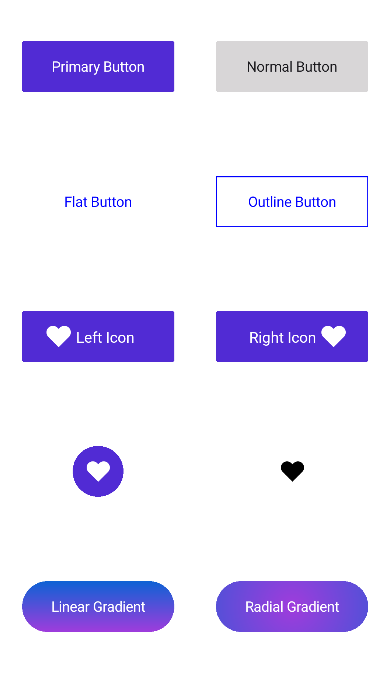
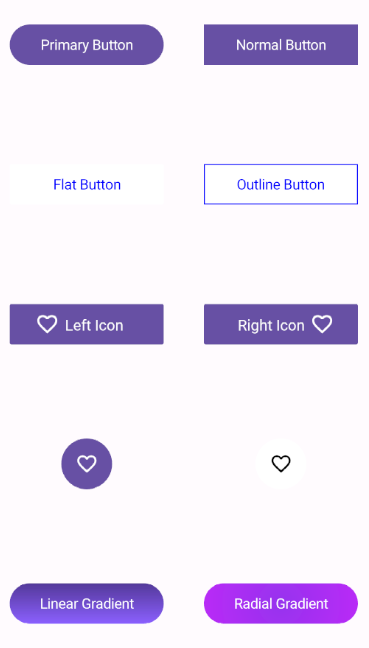
Addressed review changes

diff --git a/maui-toolkit/Button/Customization.md b/maui-toolkit/Button/Customization.md
@@ -22,7 +22,7 @@ The [`TextColor`](https://help.syncfusion.com/cr/maui-toolkit/Syncfusion.Maui.To
 {% tabs %}
 {% highlight xaml %}
 
-<button:SfButton x:Name="button" Text="Button" TextColor = "White">
+<button:SfButton x:Name="button" Text="Button" TextColor = "White" CornerRadius="10">
 </button:SfButton>
 
 {% endhighlight %}
@@ -31,6 +31,7 @@ The [`TextColor`](https://help.syncfusion.com/cr/maui-toolkit/Syncfusion.Maui.To
 SfButton button = new SfButton();
 button.Text = "Button";
 button.TextColor = Colors.White;
+button.CornerRadius= 10;
 
 {% endhighlight %}
 {% endtabs %}
@@ -44,7 +45,7 @@ The [`FontSize`](https://help.syncfusion.com/cr/maui-toolkit/Syncfusion.Maui.Too
 {% tabs %}
 {% highlight xaml %}
 
-<button:SfButton x:Name="button" Text="Button" FontSize = "18">
+<button:SfButton x:Name="button" Text="Button" FontSize = "18" CornerRadius="10">
 </button:SfButton>
 
 {% endhighlight %}
@@ -53,6 +54,7 @@ The [`FontSize`](https://help.syncfusion.com/cr/maui-toolkit/Syncfusion.Maui.Too
 SfButton button = new SfButton();
 button.Text = "Button";
 button.FontSize = 18;
+button.CornerRadius= 10;
 
 {% endhighlight %}
 {% endtabs %}
@@ -66,7 +68,7 @@ The [`FontAttributes`](https://help.syncfusion.com/cr/maui-toolkit/Syncfusion.Ma
 {% tabs %}
 {% highlight xaml %}
 
-<button:SfButton x:Name="button" Text="Button" FontAttributes = "Italic">
+<button:SfButton x:Name="button" Text="Button" FontAttributes = "Italic" CornerRadius="10">
 </button:SfButton>
 
 {% endhighlight %}
@@ -75,6 +77,7 @@ The [`FontAttributes`](https://help.syncfusion.com/cr/maui-toolkit/Syncfusion.Ma
 SfButton button = new SfButton();
 button.Text = "Button";
 button.FontAttributes = FontAttributes.Italic;
+button.CornerRadius= 10;
 
 {% endhighlight %}
 {% endtabs %}
@@ -88,7 +91,7 @@ The [`FontFamily`](https://help.syncfusion.com/cr/maui-toolkit/Syncfusion.Maui.T
 {% tabs %}
 {% highlight xaml %}
 
-<button:SfButton x:Name="button" Text="Button" FontFamily = "Samantha-Demo">
+<button:SfButton x:Name="button" Text="Button" FontFamily = "Samantha-Demo" CornerRadius="10">
 </button:SfButton>
 
 {% endhighlight %}
@@ -97,6 +100,7 @@ The [`FontFamily`](https://help.syncfusion.com/cr/maui-toolkit/Syncfusion.Maui.T
 SfButton button = new SfButton();
 button.Text = "Button";
 button.FontFamily = "Samantha-Demo";
+button.CornerRadius= 10;
 
 {% endhighlight %}
 {% endtabs %}
@@ -192,7 +196,7 @@ The [`Background`](https://help.syncfusion.com/cr/maui-toolkit/Syncfusion.Maui.T
 {% tabs %}
 {% highlight xaml %}
 
-<button:SfButton x:Name="button" Text="Button" Background = "DeepSkyBlue">
+<button:SfButton x:Name="button" Text="Button" Background = "DeepSkyBlue" CornerRadius="10">
 </button:SfButton>
 
 {% endhighlight %}
@@ -201,6 +205,7 @@ The [`Background`](https://help.syncfusion.com/cr/maui-toolkit/Syncfusion.Maui.T
 SfButton button = new SfButton();
 button.Text = "Button";
 button.Background = Colors.DeepSkyBlue;
+button.CornerRadius= 10;
 
 {% endhighlight %}
 {% endtabs %}
@@ -216,7 +221,7 @@ The [`Stroke`](https://help.syncfusion.com/cr/maui-toolkit/Syncfusion.Maui.Toolk
 {% tabs %}
 {% highlight xaml %}
 
-<button:SfButton x:Name="button" Text="Button" Stroke="Red">
+<button:SfButton x:Name="button" Text="Button" Stroke="Red" CornerRadius="10">
 </button:SfButton>
 
 {% endhighlight %}
@@ -225,6 +230,7 @@ The [`Stroke`](https://help.syncfusion.com/cr/maui-toolkit/Syncfusion.Maui.Toolk
 SfButton button = new SfButton();
 button.Text = "Button";
 button.Stroke = Colors.Red;
+button.CornerRadius= 10;
 
 {% endhighlight %}
 {% endtabs %}
@@ -238,7 +244,7 @@ The [`StrokeThickness`](https://help.syncfusion.com/cr/maui-toolkit/Syncfusion.M
 {% tabs %}
 {% highlight xaml %}
 
-<button:SfButton x:Name="button" Text="Button" Stroke="Red" StrokeThickness="6">
+<button:SfButton x:Name="button" Text="Button" Stroke="Red" StrokeThickness="6" CornerRadius="10">
 </button:SfButton>
 
 {% endhighlight %}
@@ -248,6 +254,7 @@ SfButton button = new SfButton();
 button.Text = "Button";
 button.StrokeThickness = 6;
 button.Stroke = Colors.Red;
+button.CornerRadius= 10;
 
 {% endhighlight %}
 {% endtabs %}
@@ -310,7 +317,7 @@ N> Enable the [`ShowIcon`]() property to enable the [`ImageSource`](https://help
 {% tabs %}
 {% highlight xaml %}
 
-<button:SfButton x:Name="button" Text="Button" ImageSource="Heart.png" ShowIcon="True">
+<button:SfButton x:Name="button" Text="Button" ImageSource="Heart.png" ShowIcon="True" CornerRadius="2">
 </button:SfButton>
 
 {% endhighlight %}
@@ -320,6 +327,7 @@ SfButton button = new SfButton();
 button.Text = "Button";
 button.ImageSource = "Heart.png";
 button.ShowIcon = True;
+button.CornerRadius= 2;
 
 {% endhighlight %}
 {% endtabs %}
@@ -377,6 +385,7 @@ N> Enable the `ShowIcon` property to enable the `ImageAlignment` property.
                 ShowIcon="True" 
                 ImageSize="25"
                 Stroke="Black"
+                CornerRadius="10"
                 Background="White"
                 ImageAlignment="End"/>
 
@@ -392,6 +401,7 @@ SfButton button = new SfButton()
     ShowIcon = true,
     ImageSize = 25,
     Stroke = Colors.Black,
+    CornerRadius= 10,
     Background = Colors.White,
     ImageAlignment = Alignment.End
 };
@@ -414,6 +424,7 @@ SfButton button = new SfButton()
                     ShowIcon="True" 
                     ImageSize="25"
                     Stroke="Black"
+                    CornerRadius="10"
                     Background="White"
                     ImageAlignment="Start"/>
 
@@ -429,6 +440,7 @@ SfButton button = new SfButton()
     ShowIcon = true,
     ImageSize = 25,
     Stroke = Colors.Black,
+    CornerRadius= 10,
     Background = Colors.White,
     ImageAlignment = Alignment.Start
 };
@@ -452,6 +464,7 @@ SfButton button = new SfButton()
                 ShowIcon="True" 
                 ImageSize="25"
                 Stroke="Black"
+                CornerRadius="10"
                 Background="White"
                 ImageAlignment="Top"/>
 
@@ -467,6 +480,7 @@ SfButton button = new SfButton()
     ShowIcon = true,
     ImageSize= 25,
     Stroke = Colors.Black,
+    CornerRadius= 10,
     Background = Colors.White,
     ImageAlignment = Alignment.Top
 };
@@ -490,6 +504,7 @@ SfButton button = new SfButton()
                 ShowIcon="True" 
                 ImageSize="25"
                 Stroke="Black"
+                CornerRadius="10"
                 Background="White"
                 ImageAlignment="Bottom"/>
 
@@ -505,6 +520,7 @@ SfButton button = new SfButton()
     ShowIcon = true,
     ImageSize = 25,
     Stroke = Colors.Black,
+    CornerRadius= 10,
     Background = Colors.White,
     ImageAlignment = Alignment.Bottom
 };
@@ -528,6 +544,7 @@ SfButton button = new SfButton()
                 ShowIcon="True" 
                 ImageSize="25"
                 Stroke="Black"
+                CornerRadius="10"
                 Background="White"
                 ImageAlignment="Default"/>
 
@@ -543,6 +560,7 @@ SfButton button = new SfButton()
     ShowIcon = true,
     ImageSize = 25,
     Stroke = Colors.Black,
+    CornerRadius= 10,
     Background = Colors.White,
     ImageAlignment = Alignment.Center
 };
@@ -568,6 +586,7 @@ In RTL flow direction, image alignment with [`Start`](https://help.syncfusion.co
                 ShowIcon="True" 
                 ImageSize="25"
                 Stroke="Black"
+                CornerRadius="10"
                 Background="White"
                 ImageAlignment="Left"/>
 
@@ -584,6 +603,7 @@ SfButton button = new SfButton()
     ShowIcon = true,
     ImageSize = 25,
     Stroke= Colors.Black,
+    CornerRadius= 10,
     Background = Colors.White,
     ImageAlignment = Alignment.Left
 };
@@ -608,6 +628,7 @@ In RTL flow direction, image alignment with [`End`](https://help.syncfusion.com/
                 ShowIcon="True" 
                 ImageSize="25"
                 Stroke="Black"
+                CornerRadius="10"
                 Background="White"
                 ImageAlignment="Right"/>
 
@@ -623,6 +644,7 @@ SfButton button = new SfButton()
     ShowIcon = true,
     ImageSize = 25,
     Stroke= Colors.Black,
+    CornerRadius= 10,
     Background = Colors.White,
     ImageAlignment = Alignment.Right
 };

diff --git a/maui-toolkit/Button/Getting-Started.md b/maui-toolkit/Button/Getting-Started.md
@@ -123,7 +123,8 @@ N> Ensure that the images mentioned in the code snippets are located in the **Re
 <buttons:SfButton x:Name="SfButton" 
                     Text="Button"
                     TextColor="White" 
-                    ShowIcon="True" 
+                    ShowIcon="True"
+                    CornerRadius="2" 
                     ImageSource="button_Heart.png"/>
 
 {% endhighlight %}
@@ -134,6 +135,7 @@ button.Text = "Button";
 button.TextColor = Colors.White;
 button.ImageSource = "button_Heart.png";
 button.ShowIcon = true;
+button.CornerRadius= 2;
 
 {% endhighlight %}
 {% endtabs %}
